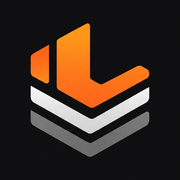
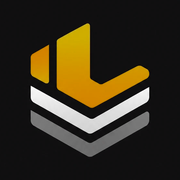
Passe l'identité visuelle à l'ambre
Écarte le site de l'identité de LayerCraft 3D, dont l'orange #FF6B2C est à
une unité du #ff6b2b que portait la charte, et dont les polices étaient les
mêmes. Space Grotesk cède la place à Outfit ; Inter reste, c'est la police
de texte la plus répandue du web.

L'accent ne pouvait pas être une valeur unique. L'ambre #f2a900 donne 9,5:1
sur le fond sombre, mais 1,9:1 sur le fond crème du thème clair, qui reçoit
donc un ambre assombri à #9a6700 (4,6:1). Du blanc sur un bouton ambre
tombant à 2:1, une variable --sur-accent porte la couleur du texte posé sur
l'accent et s'inverse d'un thème à l'autre.

Au passage, cela corrige un défaut préexistant : l'orange échouait déjà aux
contrastes AA en thème clair (2,65:1) et sous le texte blanc des boutons
(2,84:1).

Les visuels sont régénérés par une rotation de teinte de +24°, qui amène le
dégradé du logo sur celle de l'ambre ; au-delà de +30° les tons clairs
virent au jaune-vert. scripts/generer-logo.mjs enregistre l'opération. Un
logo redessiné directement en ambre vaudrait mieux que cet original
recoloré.

Branche séparée : rien n'est fusionné tant que le rendu n'est pas validé.

Claude-Session: https://claude.ai/code/session_015CMd9wULHgvptp7V71x8TH

Changed region(s): [[0.3056, 0.1111, 0.8333, 0.6111], [0.1667, 0.25, 0.2778, 0.4722]]

diff --git a/lib/emails.ts b/lib/emails.ts
@@ -10,7 +10,7 @@ function gabarit(titre: string, corps: string): string {
   <table role="presentation" width="100%" cellpadding="0" cellspacing="0" style="max-width:560px;margin:0 auto;background:#ffffff;border:1px solid #e5e3df;border-radius:12px">
     <tr><td style="padding:24px 28px;border-bottom:1px solid #e5e3df">
       <span style="font-size:18px;font-weight:700;letter-spacing:-0.02em">${site.nom}</span>
-      <span style="color:#ff6b2b">.</span>
+      <span style="color:#9a6700">.</span>
     </td></tr>
     <tr><td style="padding:28px">
       <h1 style="margin:0 0 16px;font-size:20px;line-height:1.3">${titre}</h1>
@@ -51,7 +51,7 @@ function recapitulatif(devis: Devis): string {
 }
 
 function bouton(url: string, libelle: string): string {
-  return `<a href="${echapper(url)}" style="display:inline-block;background:#ff6b2b;color:#fff;text-decoration:none;padding:12px 20px;border-radius:8px;font-weight:600;font-size:14px">${echapper(libelle)}</a>`;
+  return `<a href="${echapper(url)}" style="display:inline-block;background:#9a6700;color:#fff;text-decoration:none;padding:12px 20px;border-radius:8px;font-weight:600;font-size:14px">${echapper(libelle)}</a>`;
 }
 
 export function urlSuivi(token: string): string {
@@ -79,7 +79,7 @@ export async function envoyerConfirmationClient(devis: Devis): Promise<boolean> 
        <p style="font-size:13px;line-height:1.6;color:#777">
          Vous pouvez aussi retrouver toutes vos demandes au même endroit en vous
          connectant avec cette adresse email, sans mot de passe :
-         <a href="${echapper(site.url)}/connexion" style="color:#ff6b2b">${echapper(site.url)}/connexion</a>
+         <a href="${echapper(site.url)}/connexion" style="color:#9a6700">${echapper(site.url)}/connexion</a>
        </p>`,
     ),
   });

diff --git a/app/globals.css b/app/globals.css
@@ -6,8 +6,11 @@
   --surface: #1a1a1a;
   --surface-haut: #202020;
   --border: #2a2a2a;
-  --accent: #ff6b2b;
-  --accent-doux: #ff8a55;
+  --accent: #f2a900;
+  --accent-doux: #ffc23d;
+  /* Couleur du texte posé SUR l'accent. L'ambre est clair : du blanc dessus
+     tomberait à 2:1. Elle s'inverse donc d'un thème à l'autre. */
+  --sur-accent: #0f0f0f;
   --text: #f0f0f0;
   --muted: #888888;
 }
@@ -18,8 +21,11 @@
     --surface: #ffffff;
     --surface-haut: #f2f0ec;
     --border: #e2dfd9;
-    --accent: #ff6b2b;
-    --accent-doux: #e0551a;
+    /* Ambre assombri : à #f2a900, du texte sur ce fond crème tombe à
+       1,9:1. Cette teinte-ci tient 4,6:1. */
+    --accent: #9a6700;
+    --accent-doux: #7d5300;
+    --sur-accent: #ffffff;
     --text: #1a1a1a;
     --muted: #6b6b6b;
   }
@@ -32,11 +38,12 @@
   --color-border: var(--border);
   --color-accent: var(--accent);
   --color-accent-doux: var(--accent-doux);
+  --color-sur-accent: var(--sur-accent);
   --color-text: var(--text);
   --color-muted: var(--muted);
 
   --font-sans: var(--font-inter), ui-sans-serif, system-ui, sans-serif;
-  --font-display: var(--font-space-grotesk), var(--font-inter), sans-serif;
+  --font-display: var(--font-outfit), var(--font-inter), sans-serif;
 }
 
 @layer base {
@@ -58,13 +65,13 @@
   h1,
   h2,
   h3 {
-    font-family: var(--font-space-grotesk), var(--font-inter), sans-serif;
+    font-family: var(--font-outfit), var(--font-inter), sans-serif;
     letter-spacing: -0.02em;
   }
 
   ::selection {
     background-color: var(--accent);
-    color: #ffffff;
+    color: var(--sur-accent);
   }
 
   :focus-visible {

diff --git a/app/layout.tsx b/app/layout.tsx
@@ -1,5 +1,5 @@
 import type { Metadata, Viewport } from "next";
-import { Inter, Space_Grotesk } from "next/font/google";
+import { Inter, Outfit } from "next/font/google";
 import { site } from "@/lib/site";
 import "./globals.css";
 
@@ -9,8 +9,8 @@ const inter = Inter({
   display: "swap",
 });
 
-const spaceGrotesk = Space_Grotesk({
-  variable: "--font-space-grotesk",
+const outfit = Outfit({
+  variable: "--font-outfit",
   subsets: ["latin"],
   display: "swap",
 });
@@ -57,7 +57,7 @@ export default function RootLayout({
 }: Readonly<{ children: React.ReactNode }>) {
   return (
     <html lang="fr">
-      <body className={`${inter.variable} ${spaceGrotesk.variable} antialiased`}>
+      <body className={`${inter.variable} ${outfit.variable} antialiased`}>
         {children}
       </body>
     </html>

diff --git a/components/ui/Button.tsx b/components/ui/Button.tsx
@@ -7,7 +7,7 @@ type Taille = "sm" | "md" | "lg";
 
 const VARIANTES: Record<Variante, string> = {
   primaire:
-    "bg-accent text-white hover:bg-accent-doux disabled:hover:bg-accent shadow-sm",
+    "bg-accent text-sur-accent hover:bg-accent-doux disabled:hover:bg-accent shadow-sm",
   secondaire:
     "bg-surface-haut text-text border border-border hover:border-accent/50",
   fantome: "text-muted hover:text-text hover:bg-surface-haut",

diff --git a/components/StlViewer.tsx b/components/StlViewer.tsx
@@ -55,7 +55,7 @@ export default function StlViewer({ url }: { url: string }) {
         geo.computeVertexNormals();
 
         materiau = new THREE.MeshStandardMaterial({
-          color: 0xff6b2b,
+          color: 0xf2a900,
           metalness: 0.1,
           roughness: 0.65,
           flatShading: false,

diff --git a/README.md b/README.md
@@ -326,14 +326,15 @@ Palette sobre, technique, crédible :
 --color-bg: #0f0f0f;          /* fond sombre */
 --color-surface: #1a1a1a;
 --color-border: #2a2a2a;
---color-accent: #ff6b2b;      /* orange filament impression */
+--color-accent: #f2a900;      /* ambre — thème sombre */
+--color-accent: #9a6700;      /* ambre assombri — thème clair, contraste AA */
 --color-text: #f0f0f0;
 --color-muted: #888;
 ```
 
 Variante light mode : blanc cassé `#f8f7f5`, texte `#1a1a1a`, accent identique.
 
-Typo : `Inter` (body) + `Space Grotesk` (titres). Google Fonts.
+Typo : `Inter` (body) + `Outfit` (titres). Google Fonts.
 
 Composants à construire avec Tailwind, pas de dépendance UI externe lourde. Radix UI primitives si besoin d'accessibilité (dialog, select, etc.).
 
